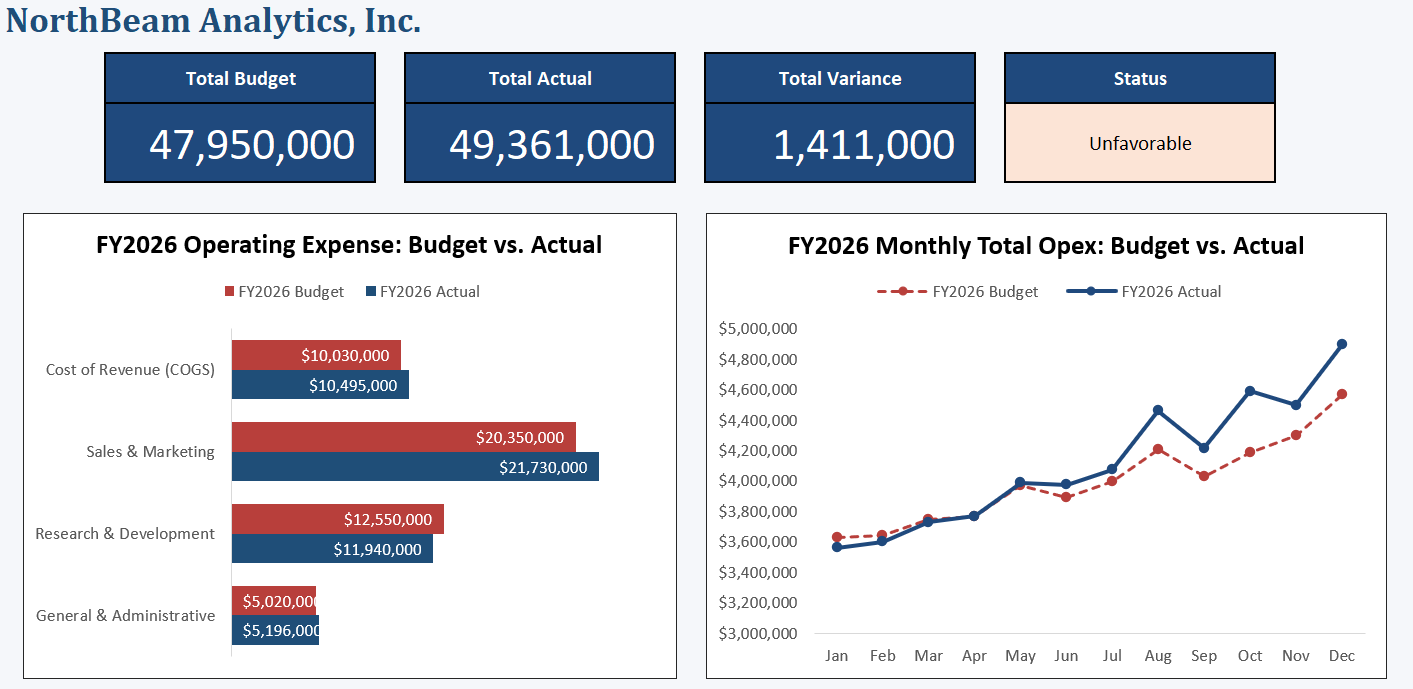
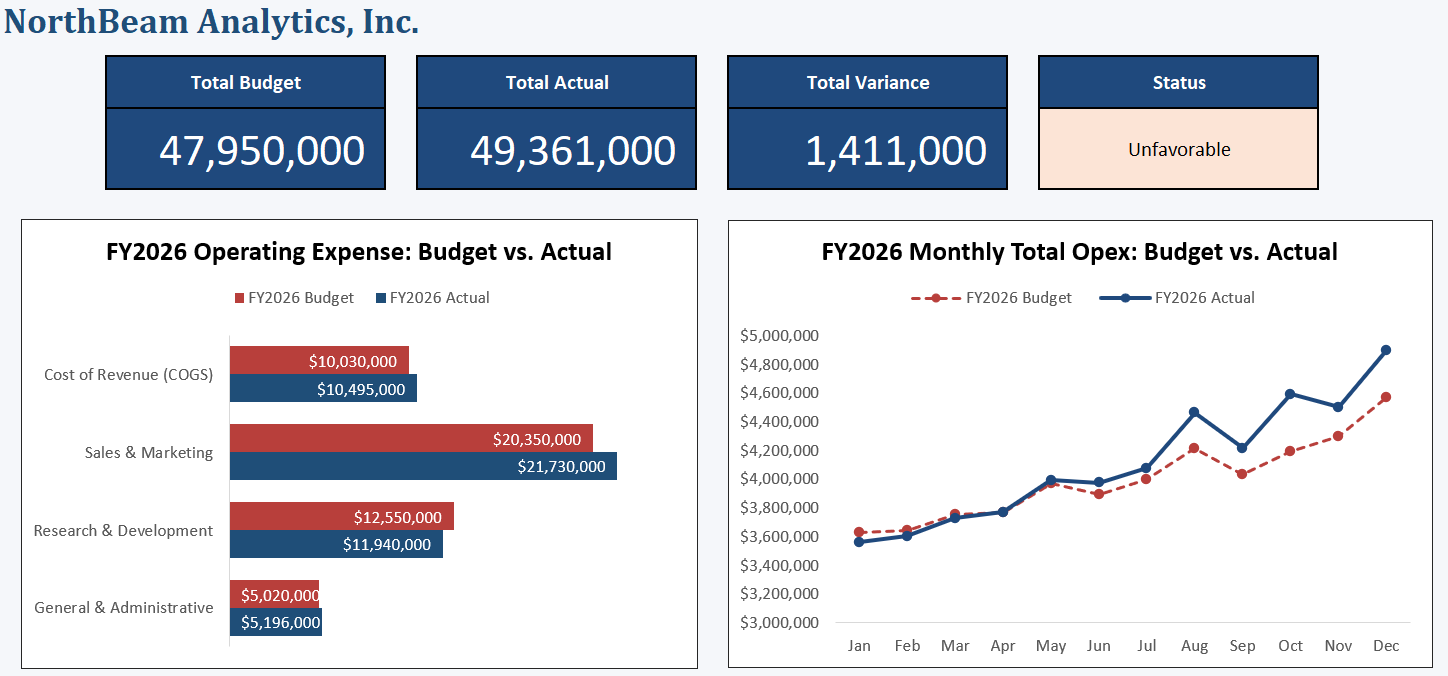
Add Google Analytics GA4 tracking to all pages (G-GY1DFJFTY4)

diff --git a/NorthBeam_BvA.html b/NorthBeam_BvA.html
@@ -3,6 +3,14 @@
 <head>
 <meta charset="UTF-8">
 <meta name="viewport" content="width=device-width, initial-scale=1.0">
+<!-- Google tag (gtag.js) -->
+<script async src="https://www.googletagmanager.com/gtag/js?id=G-GY1DFJFTY4"></script>
+<script>
+  window.dataLayer = window.dataLayer || [];
+  function gtag(){dataLayer.push(arguments);}
+  gtag('js', new Date());
+  gtag('config', 'G-GY1DFJFTY4');
+</script>
 <title>NorthBeam Analytics: FY2026 Expense Variance Analysis — Jin-Tang Shen</title>
 <link rel="preconnect" href="https://fonts.googleapis.com">
 <link rel="preconnect" href="https://fonts.gstatic.com" crossorigin>

diff --git a/TXN_DCF.html b/TXN_DCF.html
@@ -3,6 +3,14 @@
 <head>
 <meta charset="UTF-8">
 <meta name="viewport" content="width=device-width, initial-scale=1.0">
+<!-- Google tag (gtag.js) -->
+<script async src="https://www.googletagmanager.com/gtag/js?id=G-GY1DFJFTY4"></script>
+<script>
+  window.dataLayer = window.dataLayer || [];
+  function gtag(){dataLayer.push(arguments);}
+  gtag('js', new Date());
+  gtag('config', 'G-GY1DFJFTY4');
+</script>
 <title>TXN Three-Statement Model &amp; DCF Valuation — Jin-Tang Shen</title>
 <link rel="preconnect" href="https://fonts.googleapis.com">
 <link rel="preconnect" href="https://fonts.gstatic.com" crossorigin>

diff --git a/article-1.html b/article-1.html
@@ -3,6 +3,14 @@
 <head>
 <meta charset="UTF-8">
 <meta name="viewport" content="width=device-width, initial-scale=1.0">
+<!-- Google tag (gtag.js) -->
+<script async src="https://www.googletagmanager.com/gtag/js?id=G-GY1DFJFTY4"></script>
+<script>
+  window.dataLayer = window.dataLayer || [];
+  function gtag(){dataLayer.push(arguments);}
+  gtag('js', new Date());
+  gtag('config', 'G-GY1DFJFTY4');
+</script>
 <title>Coming Soon — Jin-Tang Shen (Tom)</title>
 <link rel="preconnect" href="https://fonts.googleapis.com">
 <link rel="preconnect" href="https://fonts.gstatic.com" crossorigin>

diff --git a/article-2.html b/article-2.html
@@ -3,6 +3,14 @@
 <head>
 <meta charset="UTF-8">
 <meta name="viewport" content="width=device-width, initial-scale=1.0">
+<!-- Google tag (gtag.js) -->
+<script async src="https://www.googletagmanager.com/gtag/js?id=G-GY1DFJFTY4"></script>
+<script>
+  window.dataLayer = window.dataLayer || [];
+  function gtag(){dataLayer.push(arguments);}
+  gtag('js', new Date());
+  gtag('config', 'G-GY1DFJFTY4');
+</script>
 <title>What the Cash Balance Hides — Jin-Tang Shen (Tom)</title>
 <link rel="preconnect" href="https://fonts.googleapis.com">
 <link rel="preconnect" href="https://fonts.gstatic.com" crossorigin>

diff --git a/article-3.html b/article-3.html
@@ -3,6 +3,14 @@
 <head>
 <meta charset="UTF-8">
 <meta name="viewport" content="width=device-width, initial-scale=1.0">
+<!-- Google tag (gtag.js) -->
+<script async src="https://www.googletagmanager.com/gtag/js?id=G-GY1DFJFTY4"></script>
+<script>
+  window.dataLayer = window.dataLayer || [];
+  function gtag(){dataLayer.push(arguments);}
+  gtag('js', new Date());
+  gtag('config', 'G-GY1DFJFTY4');
+</script>
 <title>Coming Soon — Jin-Tang Shen (Tom)</title>
 <link rel="preconnect" href="https://fonts.googleapis.com">
 <link rel="preconnect" href="https://fonts.gstatic.com" crossorigin>

diff --git a/article-4.html b/article-4.html
@@ -3,6 +3,14 @@
 <head>
 <meta charset="UTF-8">
 <meta name="viewport" content="width=device-width, initial-scale=1.0">
+<!-- Google tag (gtag.js) -->
+<script async src="https://www.googletagmanager.com/gtag/js?id=G-GY1DFJFTY4"></script>
+<script>
+  window.dataLayer = window.dataLayer || [];
+  function gtag(){dataLayer.push(arguments);}
+  gtag('js', new Date());
+  gtag('config', 'G-GY1DFJFTY4');
+</script>
 <title>Coming Soon — Jin-Tang Shen (Tom)</title>
 <link rel="preconnect" href="https://fonts.googleapis.com">
 <link rel="preconnect" href="https://fonts.gstatic.com" crossorigin>

diff --git a/article-5.html b/article-5.html
@@ -3,6 +3,14 @@
 <head>
 <meta charset="UTF-8">
 <meta name="viewport" content="width=device-width, initial-scale=1.0">
+<!-- Google tag (gtag.js) -->
+<script async src="https://www.googletagmanager.com/gtag/js?id=G-GY1DFJFTY4"></script>
+<script>
+  window.dataLayer = window.dataLayer || [];
+  function gtag(){dataLayer.push(arguments);}
+  gtag('js', new Date());
+  gtag('config', 'G-GY1DFJFTY4');
+</script>
 <title>Coming Soon — Jin-Tang Shen (Tom)</title>
 <link rel="preconnect" href="https://fonts.googleapis.com">
 <link rel="preconnect" href="https://fonts.gstatic.com" crossorigin>

diff --git a/articles.html b/articles.html
@@ -3,6 +3,14 @@
 <head>
 <meta charset="UTF-8">
 <meta name="viewport" content="width=device-width, initial-scale=1.0">
+<!-- Google tag (gtag.js) -->
+<script async src="https://www.googletagmanager.com/gtag/js?id=G-GY1DFJFTY4"></script>
+<script>
+  window.dataLayer = window.dataLayer || [];
+  function gtag(){dataLayer.push(arguments);}
+  gtag('js', new Date());
+  gtag('config', 'G-GY1DFJFTY4');
+</script>
 <title>Articles — Jin-Tang Shen (Tom)</title>
 <link rel="preconnect" href="https://fonts.googleapis.com">
 <link rel="preconnect" href="https://fonts.gstatic.com" crossorigin>

diff --git a/contact.html b/contact.html
@@ -3,6 +3,14 @@
 <head>
 <meta charset="UTF-8">
 <meta name="viewport" content="width=device-width, initial-scale=1.0">
+<!-- Google tag (gtag.js) -->
+<script async src="https://www.googletagmanager.com/gtag/js?id=G-GY1DFJFTY4"></script>
+<script>
+  window.dataLayer = window.dataLayer || [];
+  function gtag(){dataLayer.push(arguments);}
+  gtag('js', new Date());
+  gtag('config', 'G-GY1DFJFTY4');
+</script>
 <title>Contact — Jin-Tang Shen (Tom)</title>
 <link rel="preconnect" href="https://fonts.googleapis.com">
 <link rel="preconnect" href="https://fonts.gstatic.com" crossorigin>

diff --git a/index.html b/index.html
@@ -3,6 +3,14 @@
 <head>
 <meta charset="UTF-8">
 <meta name="viewport" content="width=device-width, initial-scale=1.0">
+<!-- Google tag (gtag.js) -->
+<script async src="https://www.googletagmanager.com/gtag/js?id=G-GY1DFJFTY4"></script>
+<script>
+  window.dataLayer = window.dataLayer || [];
+  function gtag(){dataLayer.push(arguments);}
+  gtag('js', new Date());
+  gtag('config', 'G-GY1DFJFTY4');
+</script>
 <title>Tom — Financial Analyst Portfolio</title>
 <link rel="preconnect" href="https://fonts.googleapis.com">
 <link rel="preconnect" href="https://fonts.gstatic.com" crossorigin>

diff --git a/projects.html b/projects.html
@@ -3,6 +3,14 @@
 <head>
 <meta charset="UTF-8">
 <meta name="viewport" content="width=device-width, initial-scale=1.0">
+<!-- Google tag (gtag.js) -->
+<script async src="https://www.googletagmanager.com/gtag/js?id=G-GY1DFJFTY4"></script>
+<script>
+  window.dataLayer = window.dataLayer || [];
+  function gtag(){dataLayer.push(arguments);}
+  gtag('js', new Date());
+  gtag('config', 'G-GY1DFJFTY4');
+</script>
 <title>Projects — Jin-Tang Shen (Tom)</title>
 <link rel="preconnect" href="https://fonts.googleapis.com">
 <link rel="preconnect" href="https://fonts.gstatic.com" crossorigin>

diff --git a/resume.html b/resume.html
@@ -3,6 +3,14 @@
 <head>
 <meta charset="UTF-8">
 <meta name="viewport" content="width=device-width, initial-scale=1.0">
+<!-- Google tag (gtag.js) -->
+<script async src="https://www.googletagmanager.com/gtag/js?id=G-GY1DFJFTY4"></script>
+<script>
+  window.dataLayer = window.dataLayer || [];
+  function gtag(){dataLayer.push(arguments);}
+  gtag('js', new Date());
+  gtag('config', 'G-GY1DFJFTY4');
+</script>
 <title>Resume — Jin-Tang Shen (Tom)</title>
 <link rel="preconnect" href="https://fonts.googleapis.com">
 <link rel="preconnect" href="https://fonts.gstatic.com" crossorigin>